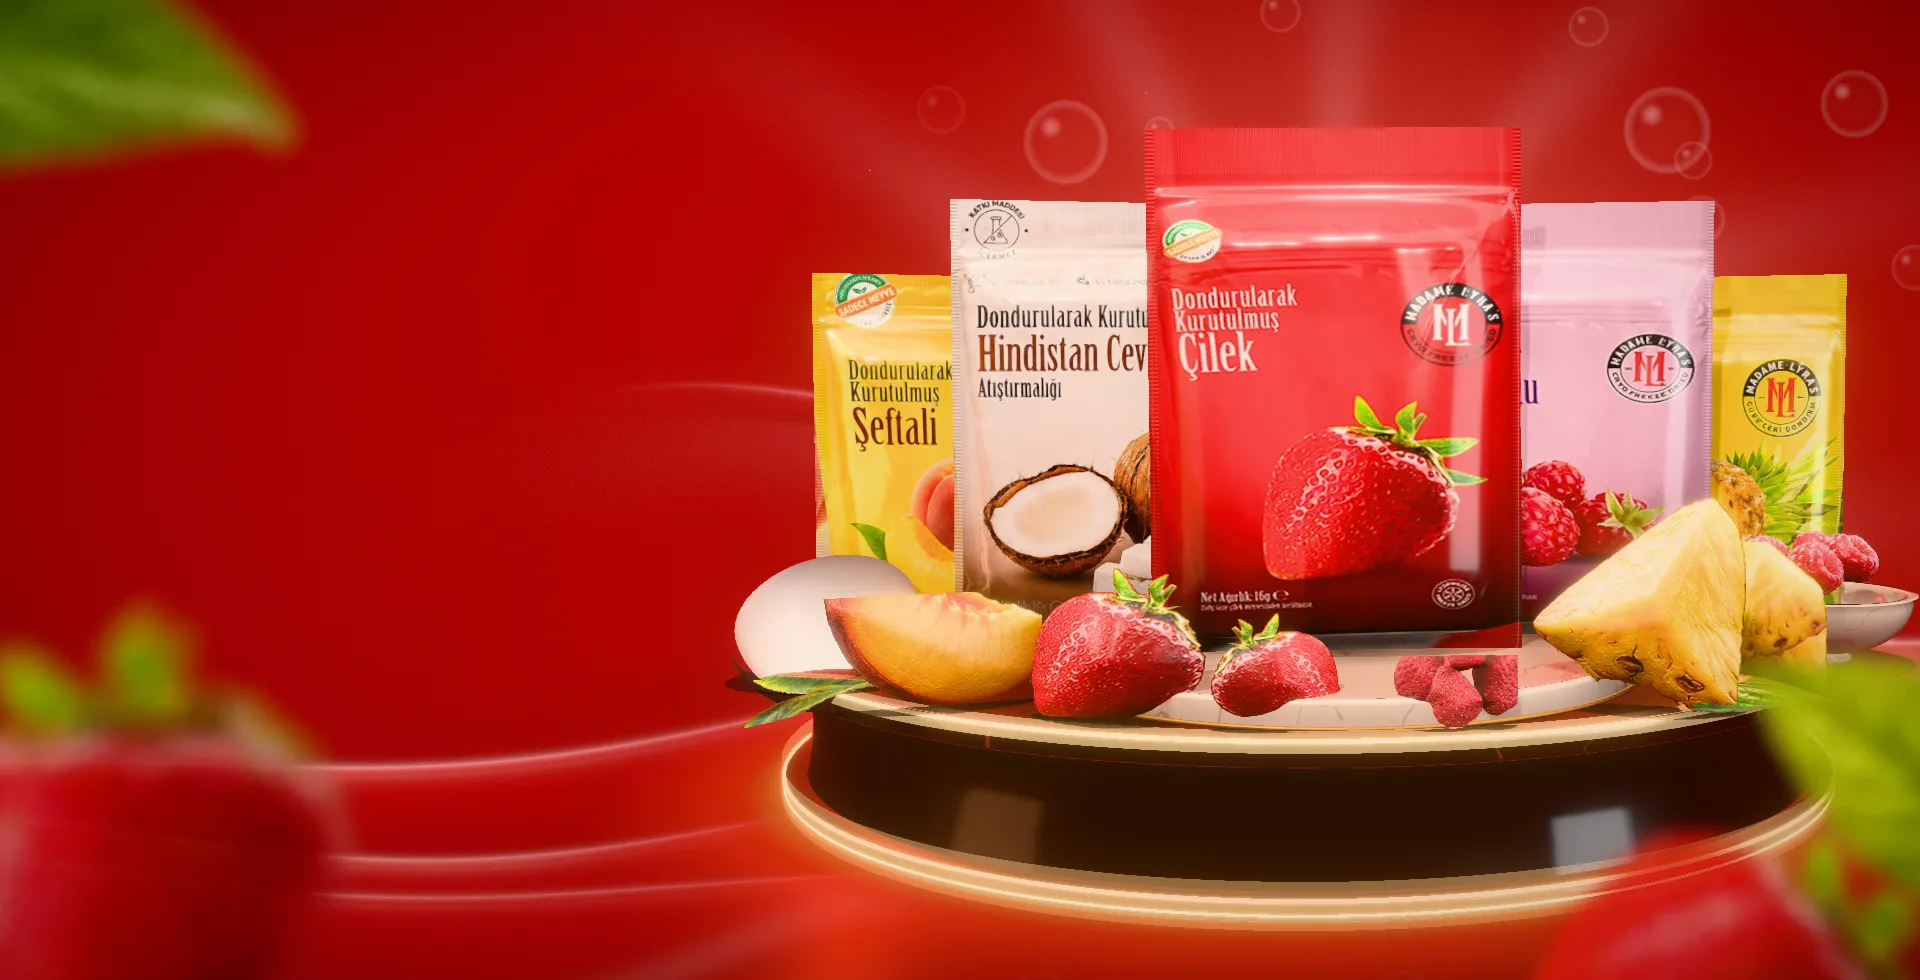
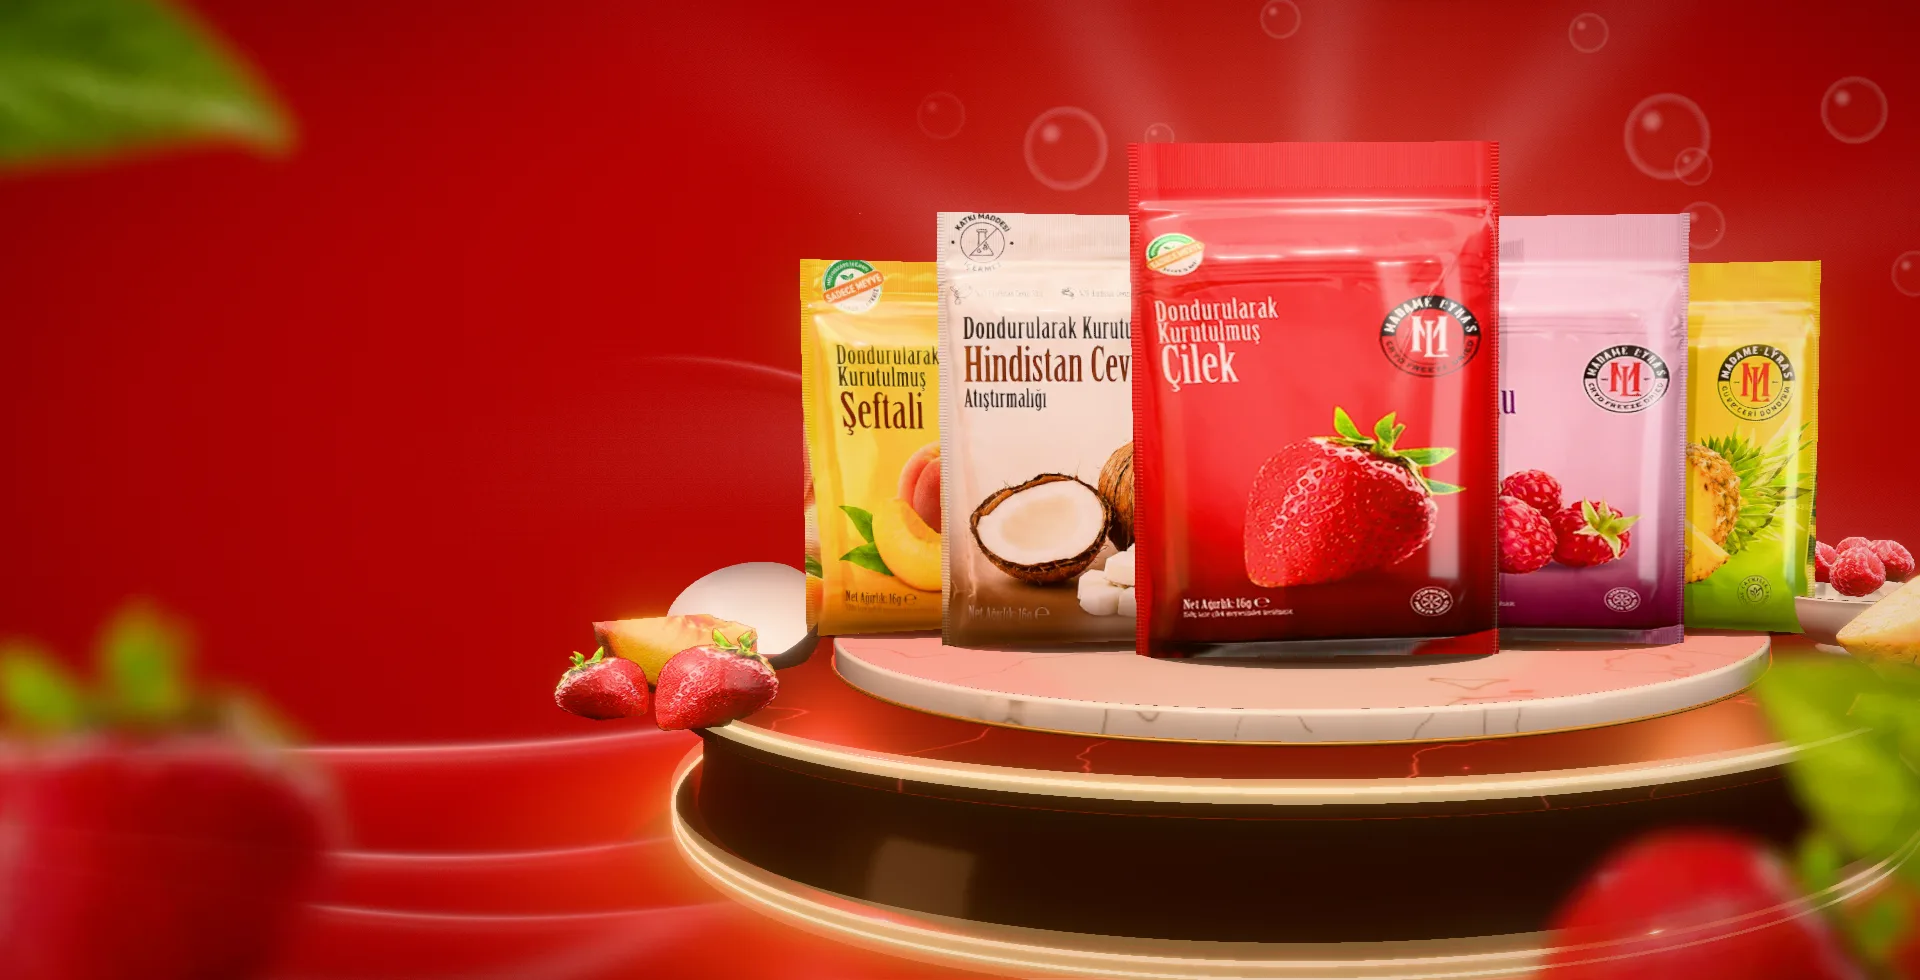
Açılış: beş paket aynı üst tablada tam oturur (temas gölgesiyle), meyveler paketlerin önünden kaldırılıp kaidenin iki yanına alındı, kaide genişletildi; açılış görüntüsü yenilendi
Claude-Session: https://claude.ai/code/session_01XvnhNvYkLjmvcfA8wc8V3a

diff --git a/madame-lyras/src/hero/HeroCanvas.jsx b/madame-lyras/src/hero/HeroCanvas.jsx
@@ -23,7 +23,7 @@ const P = (id, k, b = false) => `/parca/${id}-${k}${b ? 'b' : ''}.webp`;
 
 /* ---------------- sahne yerleşimi ---------------- */
 // kaide grubun arkasına kaydırıldı: paketler kaidenin ön yarısında, ön kenara yakın durur
-const PLAT = { x: -0.06, z: -0.5, R: 3.2 };
+const PLAT = { x: 0, z: -0.4, R: 3.75 };
 const TARGET = new THREE.Vector3(0.0, 1.05, 1.0); // ürün grubunun görsel ağırlık merkezi (çilek baskın)
 // s: çilek paketine göre ölçek; ry: en fazla ~5°, ön yüzler kameraya dönük
 const K = 1.05; // paket ölçeği (7 paketin hepsi kaideye sığsın)
@@ -32,10 +32,10 @@ const S0 = 1.86 * K;
 // 7 paket yelpaze gibi kademeli dizilir: çilek önde ortada, diğerleri iki yana doğru birer adım geride;
 // her paketin yarıdan fazlası (adı ve logosu) görünür
 // üst kat (açık renk mermer tabla) yüksekliği ve konumu
-const TIER = { x: 0.05, z: 0.95, R: 1.62, h: 0.14 };
+const TIER = { x: 0, z: -0.12, R: 2.78, h: 0.16 };
 const POUCHES = [
-  { id: 'seftali', x: -2.1, z: 0.4, ry: 0.3, s: 0.86 },
-  { id: 'ananas', x: 2.2, z: 0.4, ry: -0.3, s: 0.86 },
+  { id: 'seftali', x: -2.1, z: 0.4, ry: 0.3, s: 0.86, y: TIER.h },
+  { id: 'ananas', x: 2.2, z: 0.4, ry: -0.3, s: 0.86, y: TIER.h },
   { id: 'hindistan-cevizi', x: -1.15, z: 0.85, ry: 0.15, s: 0.95, y: TIER.h },
   { id: 'ahududu', x: 1.25, z: 0.85, ry: -0.15, s: 0.95, y: TIER.h },
   { id: 'cilek', x: 0.05, z: 1.3, ry: -0.03, s: 1.08, hero: true, y: TIER.h },
@@ -51,15 +51,15 @@ function cameraPlan(w, h) {
     // dikey tablette sahne biraz daha aşağıda ve küçük: paketlerin üstü menünün altına girmesin
     // telefon: yazılar üstte, sahne altta (kaide alttaki özellik satırının hemen üstünde)
     // telefon: yazılar üstte, sahne düğmelerin altı ile alttaki bilgi satırı arasında
-    if (A > 0.6) return { fov: 38, elev: 0.06, frac: 0.9, sx: 0.5, sy: 0.7, A };
-    return { fov: 38, elev: 0.06, frac: 1.08, sx: 0.5, sy: 0.69, A };
+    if (A > 0.6) return { fov: 38, elev: 0.06, frac: 1.0, sx: 0.5, sy: 0.7, A };
+    return { fov: 38, elev: 0.06, frac: 1.22, sx: 0.5, sy: 0.69, A };
   }
   if (A < 1.35) {
     // tablet: yazılar solda, grup biraz daha küçük
     return { fov: 36, elev: 0.04, frac: 0.44, sx: 0.78, sy: 0.47, A };
   }
   // göz hizasına yakın, tam karşıdan: kaide ince bir elips, paketler zeminde duruyormuş gibi
-  return { fov: 36, elev: 0.035, frac: 0.7, sx: 0.69, sy: 0.47, A };
+  return { fov: 36, elev: 0.04, frac: 0.8, sx: 0.68, sy: 0.48, A };
 }
 function planDistance(pl) {
   const t = Math.tan((pl.fov * Math.PI) / 360);
@@ -271,7 +271,7 @@ function UpperTier() {
 }
 
 /* ---------------- önde hindistan cevizi yarımı (kahverengi kabuk, beyaz iç) ---------------- */
-function Coconut({ position = [-2.55, 0.34, 1.35], r = 0.5 }) {
+function Coconut({ position = [-3.2, 0.3, 0.6], r = 0.46 }) {
   const { shell, flesh, rim } = useMemo(() => {
     const c = document.createElement('canvas'); c.width = c.height = 256;
     const x = c.getContext('2d');
@@ -302,7 +302,7 @@ function Coconut({ position = [-2.55, 0.34, 1.35], r = 0.5 }) {
 }
 
 /* ---------------- sağda mermer kâse (içinde ahududular) ---------------- */
-function Bowl({ position = [2.66, 0, 0.9] }) {
+function Bowl({ position = [3.24, 0, 0.42] }) {
   const { geo, mat } = useMemo(() => {
     const pts = [];
     pts.push(new THREE.Vector2(0.0, 0.0), new THREE.Vector2(0.2, 0.0), new THREE.Vector2(0.22, 0.04), new THREE.Vector2(0.17, 0.07));
@@ -456,22 +456,20 @@ function Orbit() {
 // rest: kaide üstünde (ön kenara yakın, ana paketin önünü kapatmadan sol ve sağ kümeler)
 // orbit: yörünge çizgisi üzerinde (açı derece; paketlerin logo ve yazılarının üstünde değil)
 const REST = [
-  // sol: şeftali dilimi ve çilekler
-  { u: P('seftali', 0), x: -1.85, z: 2.0, w: 1.0, ry: 0.35 },
-  { u: P('cilek', 0), x: -0.95, z: 2.25, w: 0.82, ry: -0.18 },
-  { u: P('cilek', 0), x: -0.25, z: 2.42, w: 0.6, ry: 0.3, flip: true },
-  { u: P('cilek', 1), x: 0.55, z: 2.45, w: 0.55, sink: 0.08 },
-  // sağ: ananas parçaları
-  { u: P('ananas', 2), x: 1.45, z: 2.05, w: 1.0, ry: -0.3 },
-  { u: P('ananas', 3), x: 2.15, z: 1.6, w: 0.72, ry: -0.5 },
-  // kâsedeki ahududular (kâse ayrı 3B model)
-  { u: P('ahududu', 0), x: 2.62, z: 1.02, y: 0.36, w: 0.34, ry: -0.3 },
-  { u: P('ahududu', 4), x: 2.86, z: 0.92, y: 0.4, w: 0.32, ry: -0.5 },
-  { u: P('ahududu', 1), x: 2.72, z: 0.78, y: 0.44, w: 0.3, ry: -0.4 },
-  { u: P('ahududu', 5), x: 2.45, z: 0.86, y: 0.42, w: 0.3, ry: -0.1 },
+  // sol yan: şeftali dilimi ve çilekler (hindistan cevizi ayrı 3B model)
+  { u: P('seftali', 0), x: -3.2, z: 1.55, w: 0.78, ry: 0.55 },
+  { u: P('cilek', 0), x: -2.75, z: 2.2, w: 0.55, ry: 0.35 },
+  { u: P('cilek', 0), x: -3.35, z: 2.05, w: 0.42, ry: 0.6, flip: true },
+  // sağ yan: ananas parçaları ve kâsedeki ahududular (kâse ayrı 3B model)
+  { u: P('ananas', 2), x: 3.05, z: 1.75, w: 0.8, ry: -0.5 },
+  { u: P('ananas', 3), x: 3.5, z: 1.2, w: 0.55, ry: -0.7 },
+  { u: P('ahududu', 0), x: 3.2, z: 0.55, y: 0.36, w: 0.32, ry: -0.3 },
+  { u: P('ahududu', 4), x: 3.42, z: 0.45, y: 0.4, w: 0.3, ry: -0.5 },
+  { u: P('ahududu', 1), x: 3.3, z: 0.3, y: 0.44, w: 0.28, ry: -0.4 },
+  { u: P('ahududu', 5), x: 3.05, z: 0.38, y: 0.42, w: 0.28, ry: -0.1 },
   // yerde birkaç yaprak
-  { u: P('yaprak', 1), x: -2.45, z: 1.75, w: 0.8, rx: -1.25, rz: 0.5, leaf: true, desk: true },
-  { u: P('yaprak', 2), x: 1.95, z: 2.2, w: 0.6, rx: -1.25, rz: -0.6, leaf: true },
+  { u: P('yaprak', 1), x: -3.5, z: 0.9, w: 0.7, rx: -1.25, rz: 0.5, leaf: true, desk: true },
+  { u: P('yaprak', 2), x: 2.75, z: 2.35, w: 0.5, rx: -1.25, rz: -0.6, leaf: true },
 ];
 const ON_ORBIT = [];
 const ON_ORBIT_S = ON_ORBIT.map((f) => ({ ...f, w: f.w * FK }));
@@ -784,7 +782,7 @@ function Scene({ flavors, mobile, reduce, onReady }) {
       <Embers mobile={mobile} />
       {/* yumuşak temas gölgeleri: giriş animasyonu boyunca canlı, sonra sabitlenir (performans) */}
       {(!mobile || introDone) && (
-        <ContactShadows position={[PLAT.x, 0.003, PLAT.z]} scale={[6.6, 6.6]} resolution={mobile ? 256 : 512}
+        <ContactShadows position={[TIER.x, TIER.h + 0.004, TIER.z]} scale={[5.6, 5.6]} resolution={mobile ? 256 : 512}
           blur={2.4} far={2.4} opacity={0.85} color="#1a0503" frames={introDone ? 1 : Infinity} />
       )}
       <Rig mobile={mobile} />
